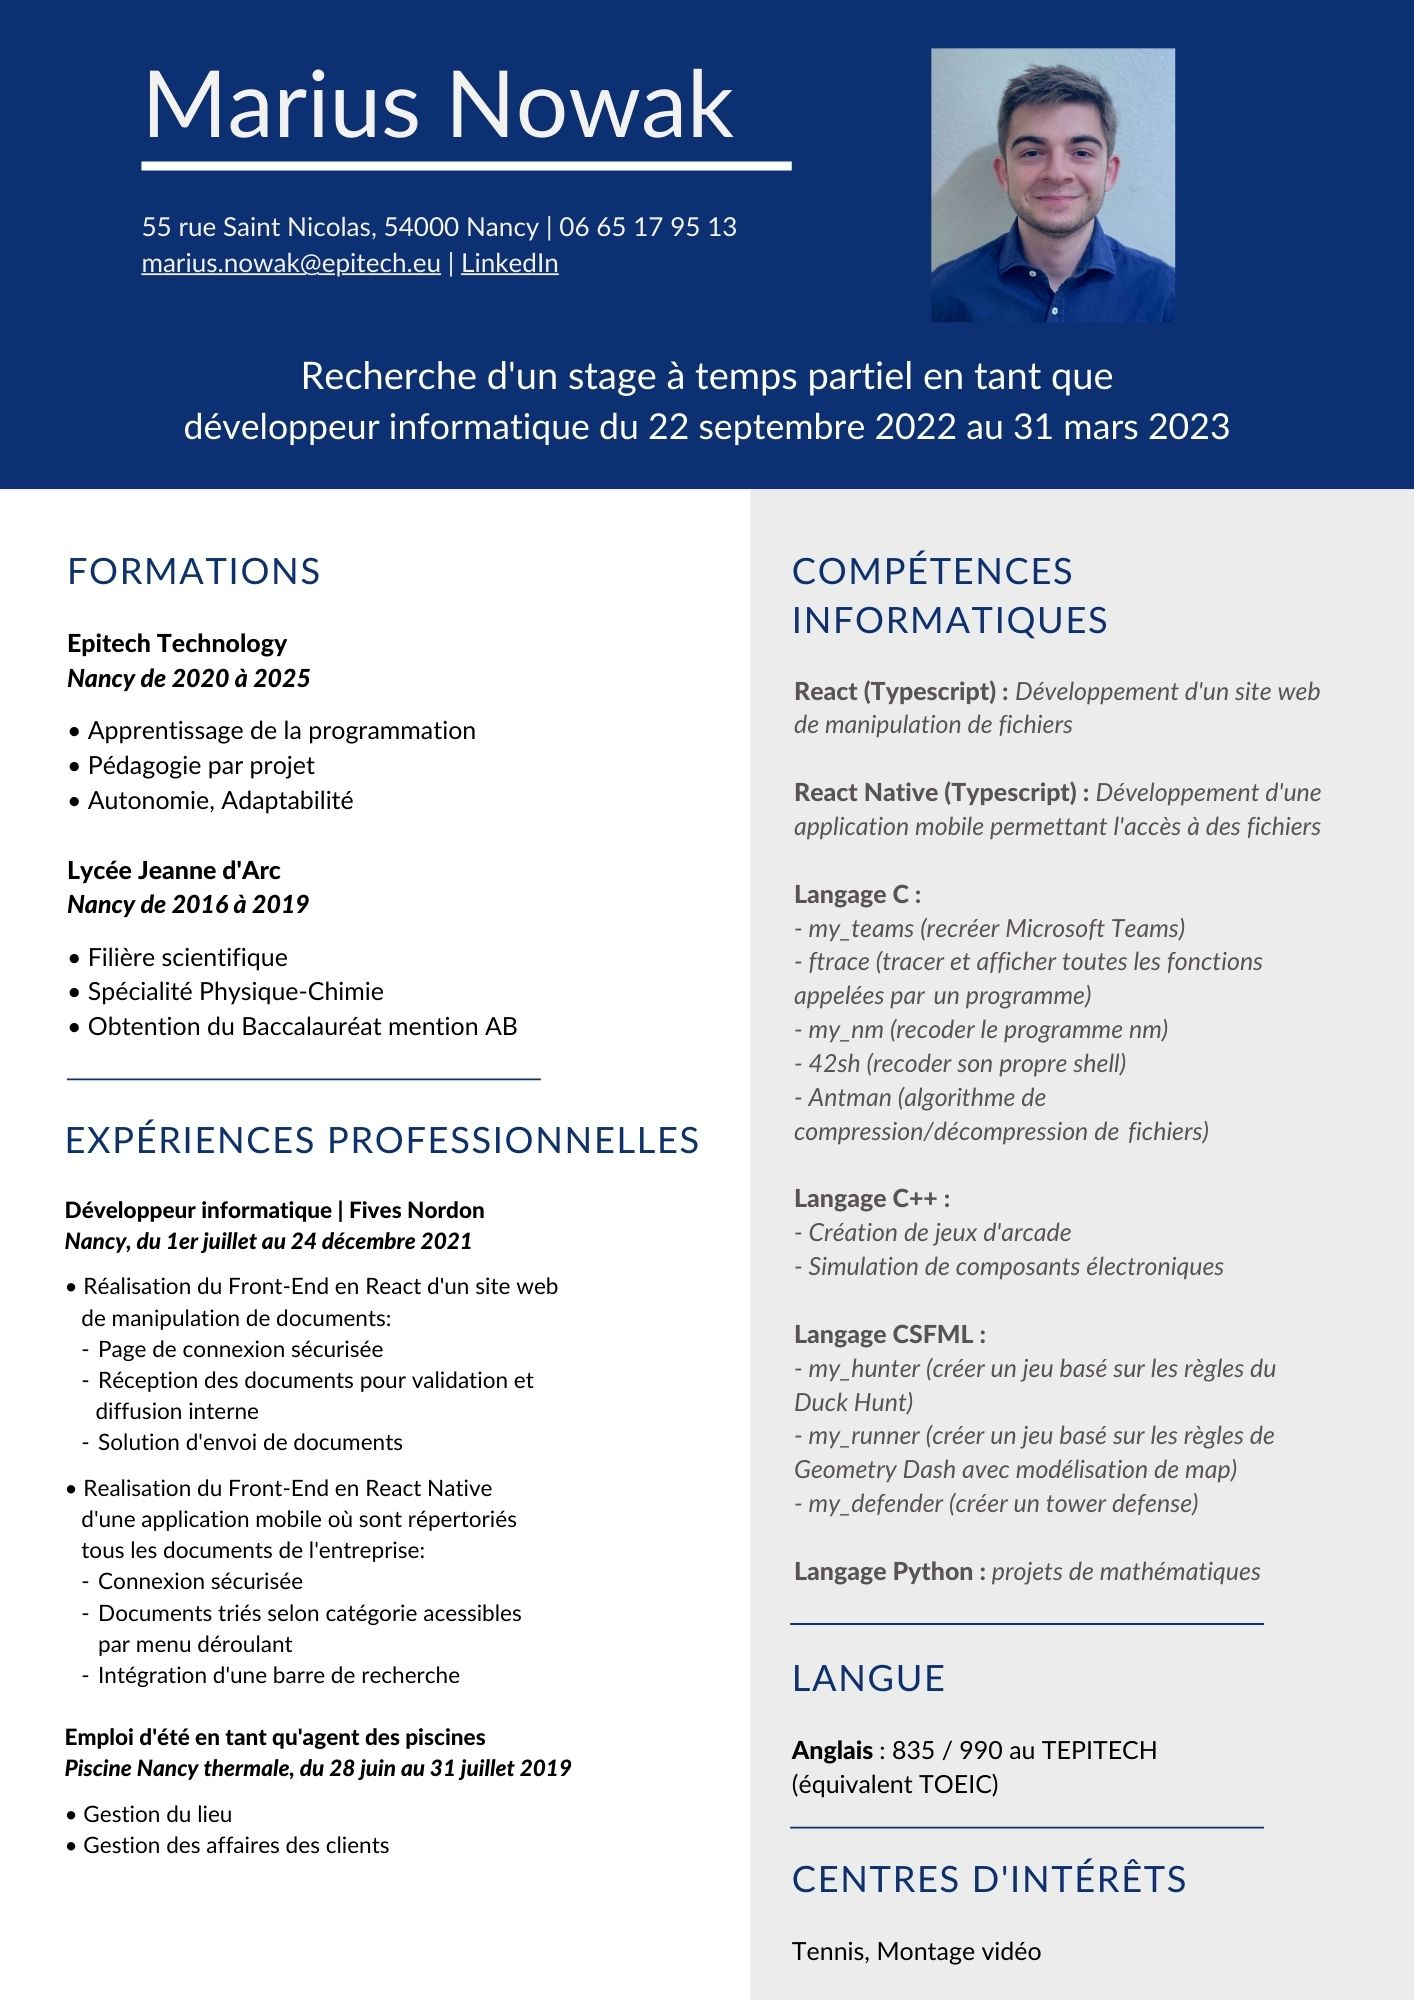
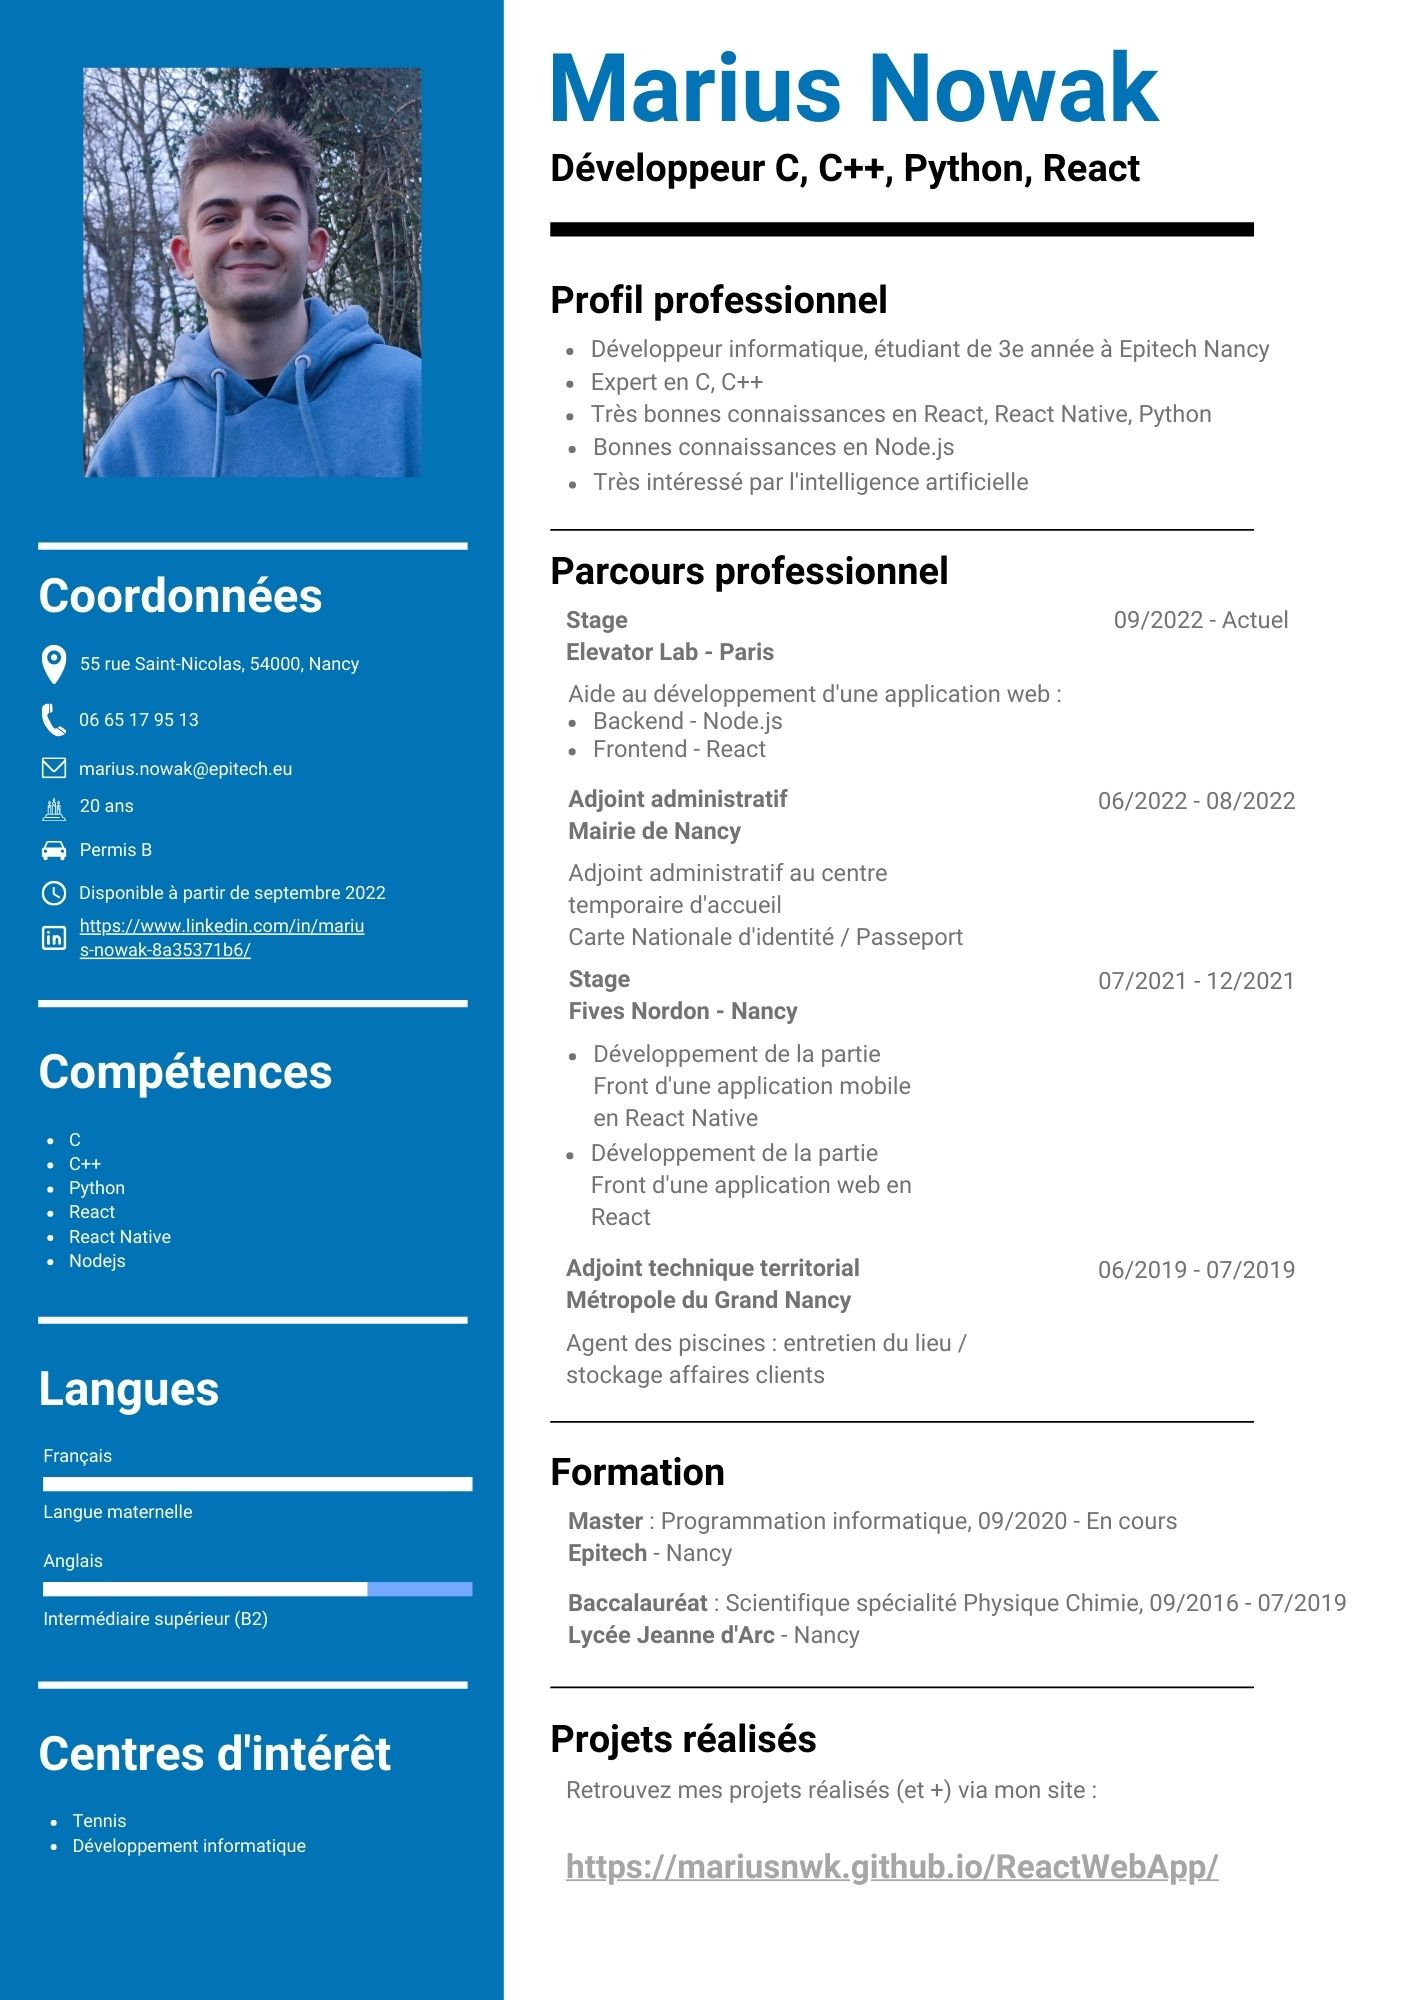
wip: building cv page

diff --git a/src/Pages/CV/CV.tsx b/src/Pages/CV/CV.tsx
@@ -1,58 +1,52 @@
-import { Button, Row } from "antd";
-import styled from "styled-components";
-import { colors } from "../../Utils/colors";
-import myCV from "../../assets/CV.jpg";
-import { saveAs } from "file-saver";
-import { DownloadOutlined } from "@ant-design/icons";
+import { Row } from "antd";
 import { useState } from "react";
+import styled from "styled-components";
+import PdfCV from "./PdfCV";
+import WebCV from "./WebCV";
 
 export default function CV() {
-  const [isLoading, setIsLoading] = useState(false);
+  const [webVersion, setVersion] = useState(true);
 
-  function Download() {
-    setIsLoading(true);
-    saveAs(myCV, "CV Marius Nowak");
-    setIsLoading(false);
+  function handleOnClick() {
+    setVersion(!webVersion);
   }
 
   return (
-    <CVWrapper align="top" justify="center">
-      <CustomRow>
-        <CustomRow justify="center">
-          <StyledImage alt="CV" src={myCV} />
-        </CustomRow>
-        <CustomRow justify="center">
-          <Button
-            type="primary"
-            icon={<DownloadOutlined />}
-            onClick={Download}
-            loading={isLoading}
-          >
-            {isLoading ? "En cours..." : "Télécharger"}
-          </Button>
-        </CustomRow>
-      </CustomRow>
+    <CVWrapper>
+      <ButtonRow justify="center">
+        <InsideButtonRow align="middle" onClick={handleOnClick}>
+          <ChangeCvButton>
+            {webVersion ? "Voir version PDF" : "Voir version WEB"}
+          </ChangeCvButton>
+        </InsideButtonRow>
+      </ButtonRow>
+      {webVersion ? <WebCV /> : <PdfCV />}
     </CVWrapper>
   );
 }
 
 const CVWrapper = styled(Row)`
   min-height: calc(100vh - 70px);
-  background: linear-gradient(
-    to right,
-    ${colors.niceBlue},
-    ${colors.cvBlue},
-    ${colors.niceBlue}
-  );
+  background: #0273b7;
 `;
 
-const StyledImage = styled.img`
-  height: 80vh;
-  box-shadow: 0px 4px 4px rgba(0, 0, 0, 0.25);
-  border-radius: 30px;
-`;
-
-const CustomRow = styled(Row)`
+const ButtonRow = styled(Row)`
   width: 100%;
-  margin: 10px 0;
+  margin-top: 10px;
+`;
+
+const InsideButtonRow = styled(Row)`
+  height: 50px;
+  background: #004777;
+  border-radius: 20px;
+  :hover {
+    cursor: pointer;
+  }
+`;
+
+const ChangeCvButton = styled.div`
+  font-family: "Montserrat", sans-serif;
+  font-size: large;
+  margin: 0 20px;
+  color: #f7f7f7;
 `;

diff --git a/src/Pages/CV/PdfCV.tsx b/src/Pages/CV/PdfCV.tsx
@@ -1,0 +1,49 @@
+import { Button, Col, Row } from "antd";
+import styled from "styled-components";
+import myCV from "../../assets/CV.jpg";
+import { saveAs } from "file-saver";
+import { DownloadOutlined } from "@ant-design/icons";
+import { useState } from "react";
+
+export default function PdfCV() {
+  const [isLoading, setIsLoading] = useState(false);
+
+  function Download() {
+    setIsLoading(true);
+    saveAs(myCV, "CV Marius Nowak");
+    setIsLoading(false);
+  }
+
+  return (
+    <CustomRow>
+      <CustomRow justify="center">
+        <Col>
+          <StyledImage alt="CV" src={myCV} />
+          <StyledButton
+            type="primary"
+            icon={<DownloadOutlined />}
+            onClick={Download}
+            loading={isLoading}
+            size="large"
+          />
+        </Col>
+      </CustomRow>
+      <CustomRow justify="center"></CustomRow>
+    </CustomRow>
+  );
+}
+
+const StyledImage = styled.img`
+  height: 80vh;
+  box-shadow: 0px 4px 4px rgba(0, 0, 0, 0.25);
+  border-radius: 30px;
+`;
+
+const StyledButton = styled(Button)`
+  position: absolute;
+  right: 0;
+`;
+
+const CustomRow = styled(Row)`
+  width: 100%;
+`;

diff --git a/src/Pages/CV/WebCV.tsx b/src/Pages/CV/WebCV.tsx
@@ -1,0 +1,58 @@
+import { Col, Row } from "antd";
+import styled from "styled-components";
+import photoCV from "../../assets/photoCV.jpg";
+
+export default function WebCV() {
+  return (
+    <FullWidthRow justify="center">
+      <MainCol>
+        <WebCvRow>
+          <LeftCol span={9}>
+            <Row>
+              <StyledImage alt="photoCV" src={photoCV} />
+            </Row>
+            <Title>Coordonnées</Title>
+          </LeftCol>
+          <RightCol span={15}></RightCol>
+        </WebCvRow>
+      </MainCol>
+    </FullWidthRow>
+  );
+}
+
+const FullWidthRow = styled(Row)`
+  width: 100%;
+`;
+
+const MainCol = styled(Col)`
+  width: 80vw;
+`;
+
+const WebCvRow = styled(Row)`
+  box-shadow: 0px 4px 4px rgba(0, 0, 0, 0.25);
+  border-radius: 30px;
+`;
+
+const LeftCol = styled(Col)`
+  padding: 20px;
+  border: solid;
+  border-width: 1px;
+  border-color: yellow;
+  color: #feffff;
+`;
+
+const RightCol = styled(Col)`
+  padding: 20px;
+  border: solid;
+  border-width: 1px;
+  border-color: red;
+`;
+
+const StyledImage = styled.img`
+  width: 10vw;
+  margin: 20px;
+`;
+
+const Title = styled.div`
+  font-size: 2vw;
+`;

diff --git a/src/Pages/Home/Home.tsx b/src/Pages/Home/Home.tsx
@@ -8,7 +8,7 @@ export default function Home() {
   const links = [
     {
       id: 1,
-      description: "📃Mon CV (quand même)",
+      description: "📃Mon CV version web",
       background: "#ffffff71",
       linkto: mainPage + "/cv",
     },

diff --git a/src/Utils/colors.ts b/src/Utils/colors.ts
@@ -4,5 +4,5 @@ export const colors = {
   myBlack: "#414141",
   myGrey: "#f7f7f7",
   niceBlue: "#004777",
-  cvBlue: "#0d3074",
+  cvBlue: "#0273b7",
 };
